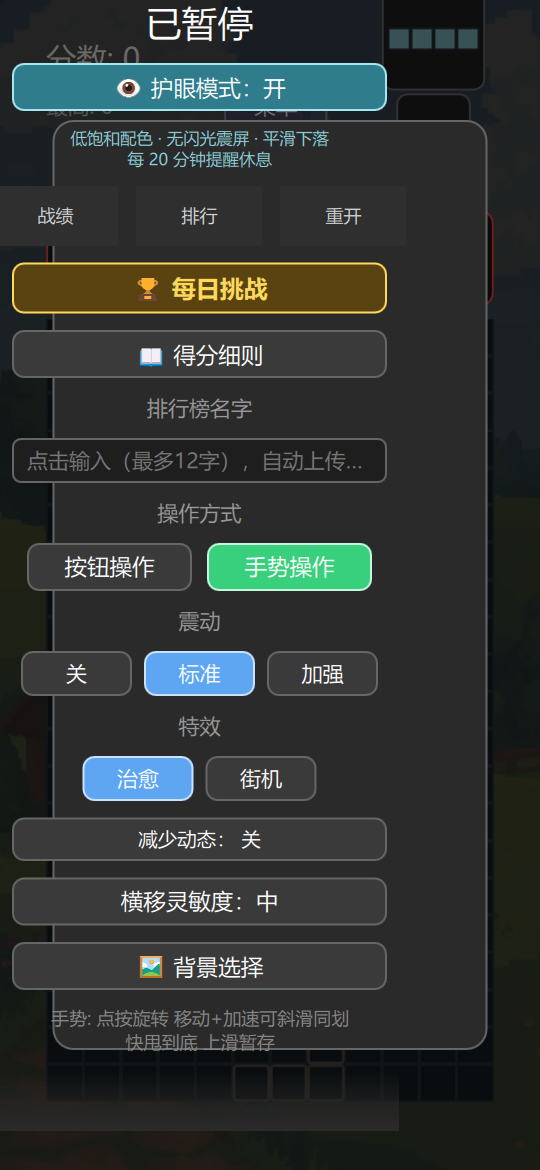
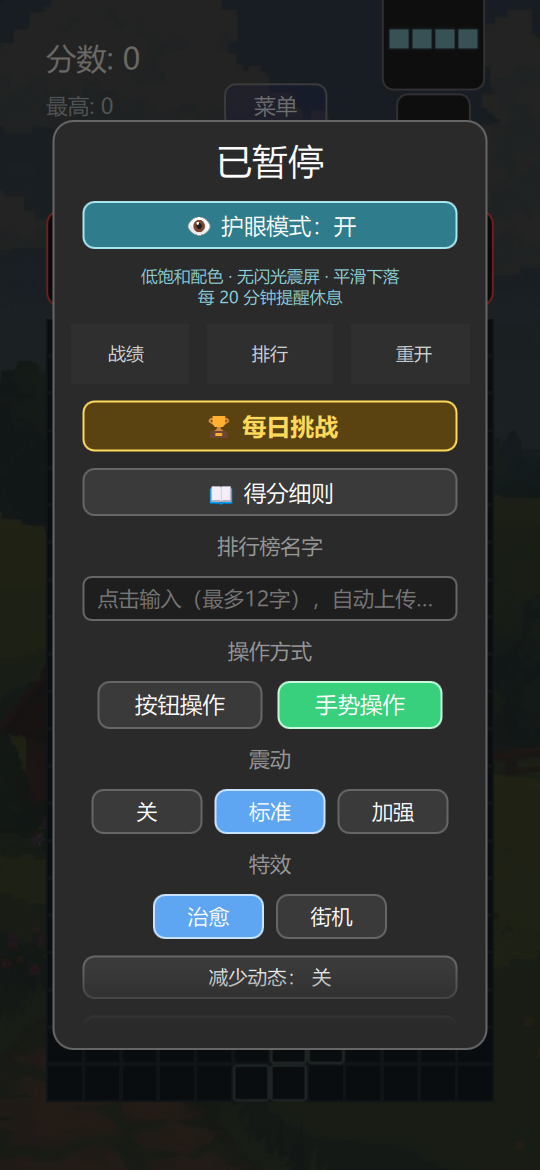
热修 v50 破损补丁+面板结构重建：settingsPanel 区域被连环修补弄乱（settingsColumn 落在 Flickable 外/渐隐层在 content 内/缺少 z:40 暗区闭合）——按括号深度追踪确定性重建整个面板骨架（Column 归位 Flickable 内、渐隐为视口层兄弟、补 z:40 闭合）；qmllint 零错误+菜单截图验证；v51 替换线上 v50；教训：部署链必须以构建成功为闸（管道曾吞退出码）

diff --git a/Main.qml b/Main.qml
@@ -4891,36 +4891,33 @@ ApplicationWindow {
             }
         }
 
-        Rectangle {
-            id: settingsPanel
-            width: 290
-            // 高度跟随屏幕：矮屏（16:9 手机）上原来的固定 600 会顶到屏幕边缘
-            height: Math.min(620, parent.height - 36)
-            radius: 14
-            color: "#2a2a2a"
-            border.width: 1
-            border.color: "#666666"
-            anchors.centerIn: parent
+    Rectangle {
+        id: settingsPanel
+        width: 290
+        // 高度跟随屏幕：矮屏（16:9 手机）上原来的固定 600 会顶到屏幕边缘
+        height: Math.min(620, parent.height - 36)
+        radius: 14
+        color: "#2a2a2a"
+        border.width: 1
+        border.color: "#666666"
+        anchors.centerIn: parent
 
-            // 吞掉面板内部的空白点击，防止误触关闭
-            MouseArea {
-                anchors.fill: parent
-            }
+        // 吞掉面板内部的空白点击，防止误触关闭
+        MouseArea {
+            anchors.fill: parent
+        }
 
-            // 选项多了以后必须能滚：矮屏 + 新手势提示行加起来会超出一屏
-            Flickable {
-                id: settingsFlick
-                anchors.fill: parent
-                anchors.margins: 12
-                anchors.bottomMargin: 16
-                contentWidth: width
-                contentHeight: settingsColumn.height
-                boundsBehavior: Flickable.StopAtBounds
-                flickableDirection: Flickable.VerticalFlick
-                clip: true
-
-                }
-            }
+        // 选项多了以后必须能滚：矮屏 + 新手势提示行加起来会超出一屏
+        Flickable {
+            id: settingsFlick
+            anchors.fill: parent
+            anchors.margins: 12
+            anchors.bottomMargin: 16
+            contentWidth: width
+            contentHeight: settingsColumn.height
+            boundsBehavior: Flickable.StopAtBounds
+            flickableDirection: Flickable.VerticalFlick
+            clip: true
 
             Column {
                 id: settingsColumn
@@ -5361,6 +5358,23 @@ ApplicationWindow {
             }
             }
         }
+        }
+
+        // 底部渐隐：提示「下面还有设置项」可下滑（视口层兄弟节点，不随内容滚动）
+        Rectangle {
+            anchors.bottom: settingsFlick.bottom
+            anchors.horizontalCenter: settingsFlick.horizontalCenter
+            width: settingsFlick.width
+            height: 40
+            enabled: false
+            visible: settingsFlick.contentHeight > settingsFlick.height + 4
+                     && settingsFlick.contentY + settingsFlick.height < settingsFlick.contentHeight - 4
+            gradient: Gradient {
+                GradientStop { position: 0.0; color: "#002a2a2a" }
+                GradientStop { position: 1.0; color: "#ff2a2a2a" }
+            }
+        }
+    }
     }
 
     // 在线更新横幅（服务器 version.json 比对出新版时出现，顶部不挡棋盘）

diff --git a/leaderboard/apk/patch/Main.qml b/leaderboard/apk/patch/Main.qml
@@ -4891,36 +4891,33 @@ ApplicationWindow {
             }
         }
 
-        Rectangle {
-            id: settingsPanel
-            width: 290
-            // 高度跟随屏幕：矮屏（16:9 手机）上原来的固定 600 会顶到屏幕边缘
-            height: Math.min(620, parent.height - 36)
-            radius: 14
-            color: "#2a2a2a"
-            border.width: 1
-            border.color: "#666666"
-            anchors.centerIn: parent
+    Rectangle {
+        id: settingsPanel
+        width: 290
+        // 高度跟随屏幕：矮屏（16:9 手机）上原来的固定 600 会顶到屏幕边缘
+        height: Math.min(620, parent.height - 36)
+        radius: 14
+        color: "#2a2a2a"
+        border.width: 1
+        border.color: "#666666"
+        anchors.centerIn: parent
 
-            // 吞掉面板内部的空白点击，防止误触关闭
-            MouseArea {
-                anchors.fill: parent
-            }
+        // 吞掉面板内部的空白点击，防止误触关闭
+        MouseArea {
+            anchors.fill: parent
+        }
 
-            // 选项多了以后必须能滚：矮屏 + 新手势提示行加起来会超出一屏
-            Flickable {
-                id: settingsFlick
-                anchors.fill: parent
-                anchors.margins: 12
-                anchors.bottomMargin: 16
-                contentWidth: width
-                contentHeight: settingsColumn.height
-                boundsBehavior: Flickable.StopAtBounds
-                flickableDirection: Flickable.VerticalFlick
-                clip: true
-
-                }
-            }
+        // 选项多了以后必须能滚：矮屏 + 新手势提示行加起来会超出一屏
+        Flickable {
+            id: settingsFlick
+            anchors.fill: parent
+            anchors.margins: 12
+            anchors.bottomMargin: 16
+            contentWidth: width
+            contentHeight: settingsColumn.height
+            boundsBehavior: Flickable.StopAtBounds
+            flickableDirection: Flickable.VerticalFlick
+            clip: true
 
             Column {
                 id: settingsColumn
@@ -5361,6 +5358,23 @@ ApplicationWindow {
             }
             }
         }
+        }
+
+        // 底部渐隐：提示「下面还有设置项」可下滑（视口层兄弟节点，不随内容滚动）
+        Rectangle {
+            anchors.bottom: settingsFlick.bottom
+            anchors.horizontalCenter: settingsFlick.horizontalCenter
+            width: settingsFlick.width
+            height: 40
+            enabled: false
+            visible: settingsFlick.contentHeight > settingsFlick.height + 4
+                     && settingsFlick.contentY + settingsFlick.height < settingsFlick.contentHeight - 4
+            gradient: Gradient {
+                GradientStop { position: 0.0; color: "#002a2a2a" }
+                GradientStop { position: 1.0; color: "#ff2a2a2a" }
+            }
+        }
+    }
     }
 
     // 在线更新横幅（服务器 version.json 比对出新版时出现，顶部不挡棋盘）
